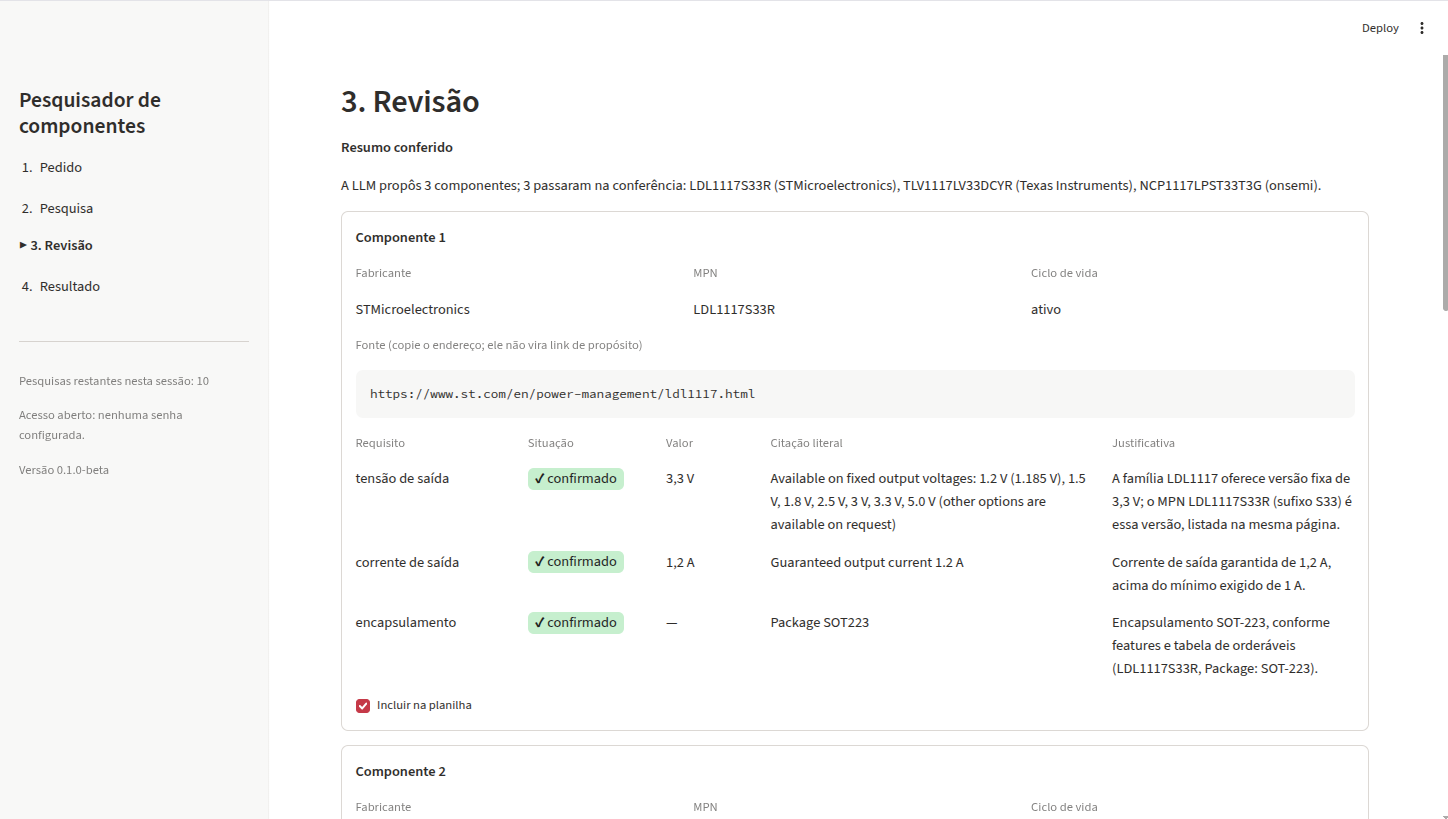
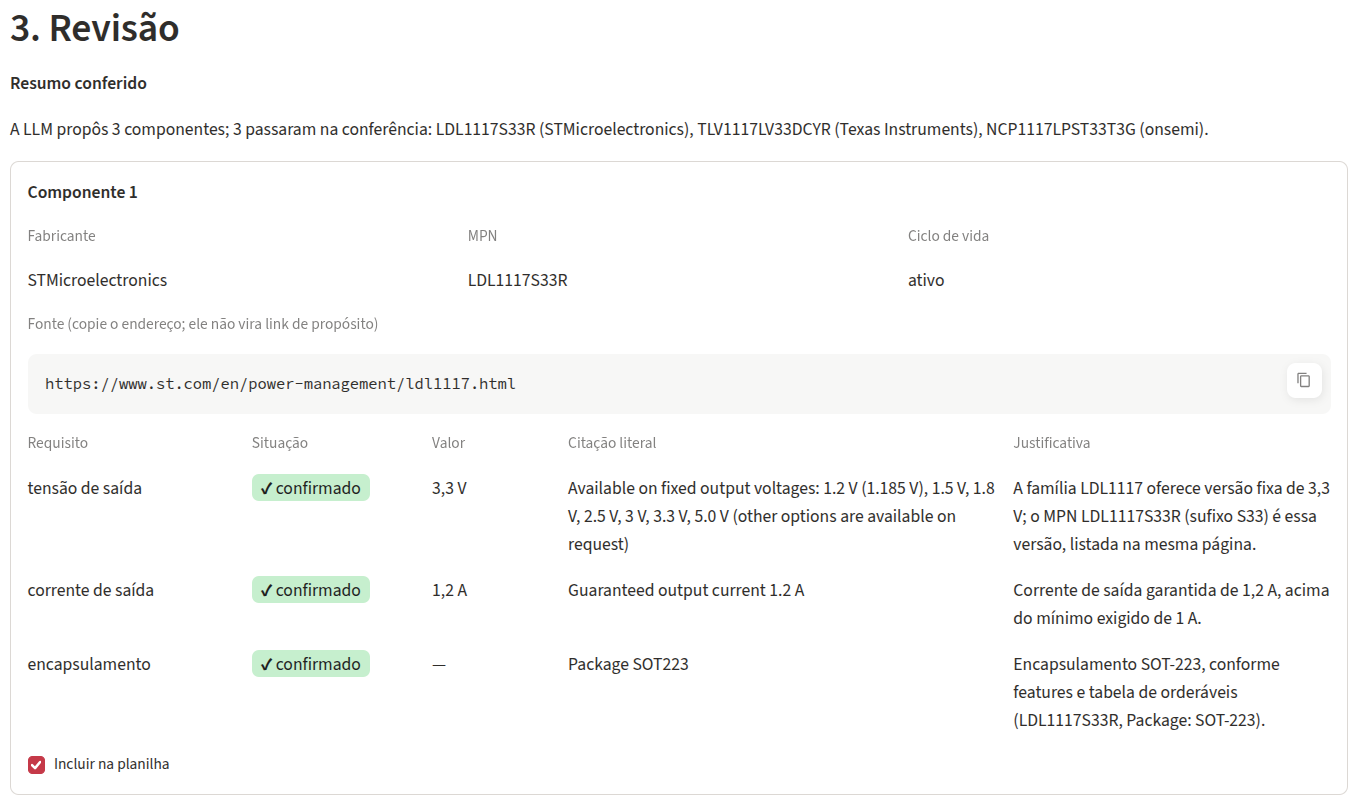
Melhorando imagens do README

diff --git a/README.md b/README.md
@@ -5,9 +5,21 @@ pelo código.
 
 ![testes](https://github.com/cauelemes/pesquisador-de-componentes/actions/workflows/testes.yml/badge.svg)
 
-| Etapa 1: o pedido | Etapa 2: a atividade ao vivo | Etapa 3: a revisão das provas |
-|---|---|---|
-| ![Etapa 1: o pedido](docs/img/pedido.png) | ![Etapa 2: a atividade ao vivo](docs/img/pesquisa.png) | ![Etapa 3: a revisão das provas](docs/img/revisao.png) |
+![Revisão das provas: cada componente com a citação literal, a situação e a justificativa](docs/img/revisao.png)
+
+<details>
+<summary>Ver as outras etapas (pedido e pesquisa ao vivo)</summary>
+
+**Etapa 1: o pedido**
+
+![Etapa 1: o pedido](docs/img/pedido.png)
+
+**Etapa 2: a atividade ao vivo**
+
+![Etapa 2: a atividade ao vivo](docs/img/pesquisa.png)
+
+</details>
+
 
 ## Por que este projeto existe
 
